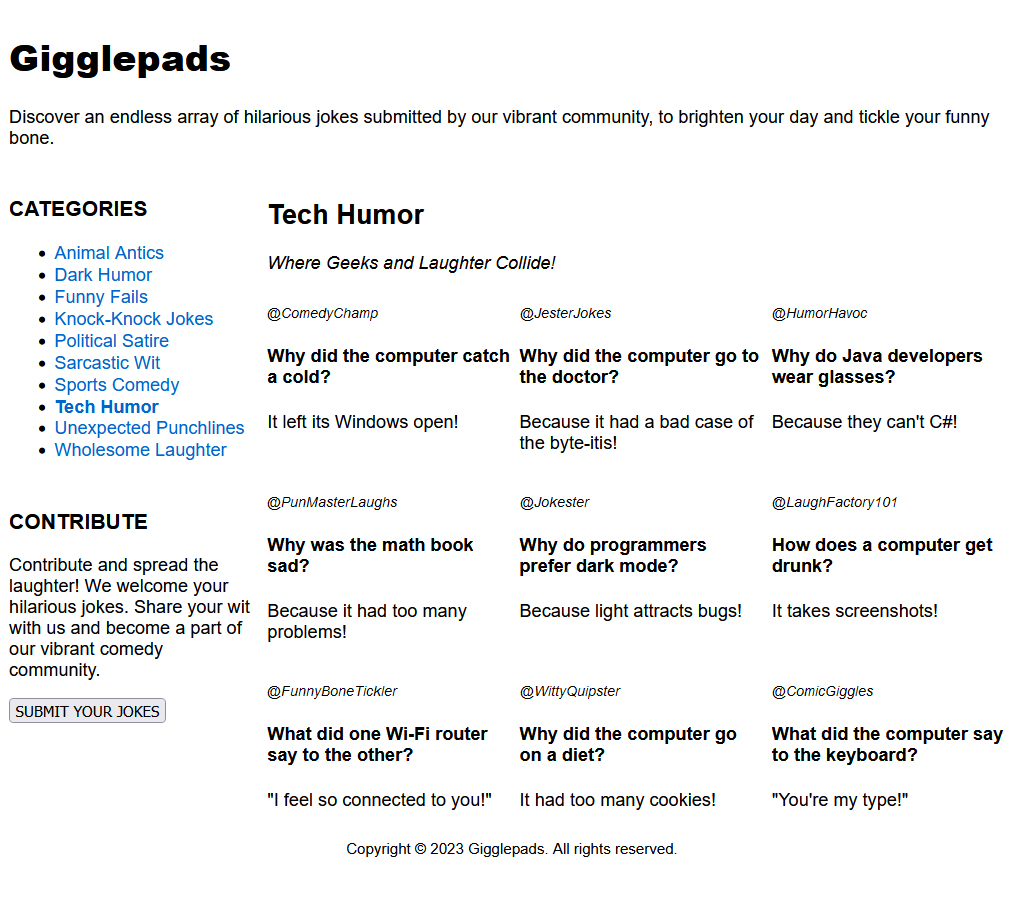
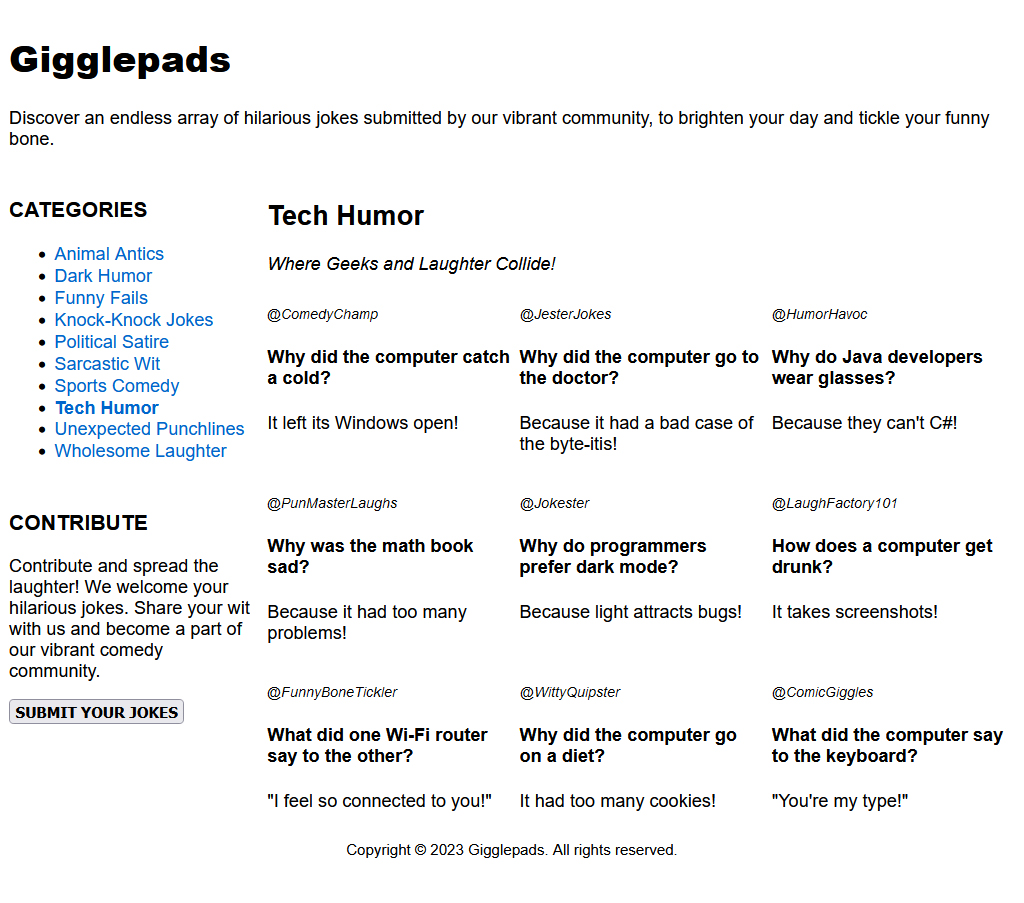
Update README.

diff --git a/README.md b/README.md
@@ -607,6 +607,9 @@ by setting its `font-weight` property.
             ...
 ```
 
+***TODO:***
+Make the text in the **"SUBMIT YOUR JOKES"** button bold.
+
 ##### Font Style
 In HTML, we use the `<i>` tag to make text *italic*.
 But in CSS, we can achieve the same effect
@@ -684,7 +687,69 @@ include `left`, `justify`, or `right`.
 Add `text-align: center;` style to the `<footer>` element.
 
 ##### Fonts Output
-After applying some CSS styles to fonts,
+After applying some CSS styles related to fonts,
 we should see the following output:
 
 ![fonts](assets/css-01--06-fonts.jpg)
+
+---
+
+#### 3. Colors
+Colors in CSS are used to define the appearance of elements,
+such as text, backgrounds, borders, and more.
+CSS allows us to specify colors using various formats,
+providing a wide range of color choices.
+
+Here is a table summarizing the three commonly-used
+color value formats in CSS:
+
+|    | Color Format | Description                                                | Example          |
+|----|--------------|------------------------------------------------------------|------------------|
+| 1. | Named Colors | Predefined color names in CSS.                             | red, blue, green |
+| 2. | Hexadecimal  | Represents colors using six-digit codes.                   | #ff0000, #00ff00 |
+| 3. | RGB          | Represents colors using the red, green, and blue channels. | rgb(255, 0, 0)   |
+
+##### Text Color
+To change the text color of an element,
+we use the `color` property and provide a valid color value.
+
+*Example:*
+```css
+color: green;
+```
+***TODO:***
+Change the text color in the **"SUBMIT YOUR JOKES"** button to `green`.
+
+##### Background Color
+To change the background color of an element,
+we use the `background-color` property and provide a valid color value.
+
+*Example:*
+```css
+background-color: #ffd1dc;
+```
+
+***TODO:***
+Apply the following background colors
+to each `<article>` element that contains a joke:
+
+| Joke        | Background Color |
+|-------------|:----------------:|
+| **Joke #1** |    `#ffd1dc`     |
+| **Joke #2** |    `#98ff98`     |
+| **Joke #3** |    `#87ceeb`     |
+| **Joke #4** |    `#e6e6fa`     |
+| **Joke #5** |    `#ffdab9`     |
+| **Joke #6** |    `#fff44f`     |
+| **Joke #7** |    `#b2ffff`     |
+| **Joke #8** |    `#ffff99`     |
+| **Joke #9** |    `#afeeee`     |
+
+##### Colors Output
+After applying some colors,
+we should see the following output:
+
+![fonts](assets/css-01--07-colors.jpg)
+
+---
+
